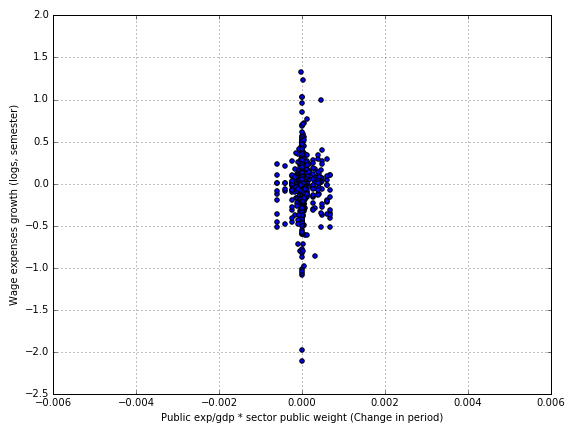
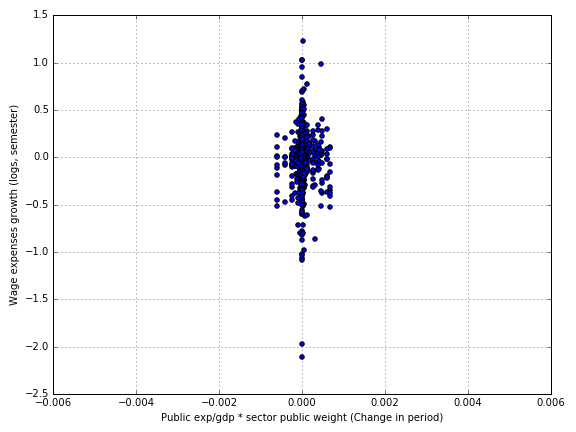
removed reig jofre post merger; code to create index based on cinco dias, panel now loows nice

diff --git a/cincodias/main.py b/cincodias/main.py
@@ -14,18 +14,50 @@ import urllib2
 import datetime
 from bs4 import BeautifulSoup
 import os
-
+import pandas as pd
+import numpy as np
 
 from news_risk.settings import rootdir
-datadir = os.path.join(rootdir,'cincodias','data')
+thisdir = os.path.join(rootdir,'cincodias')
+datadir = os.path.join(thisdir,'data')
 if not os.path.exists(datadir):
     os.makedirs(datadir)
+
+
+from re import compile, MULTILINE
+
+conds = [[r'incertidumbre',r'\binciert'],
+         [r'econ(o|ó)m(i|í)'],
+         [r'\bimp(uesto|ositiv|onib)',r'\btarifa',r'\bregula(ci|ti|to)',r'\bpol(i|í)tica',r'\bgast(ar|o|a|os)\b',r'\bpresupuest',r'\bd(e|é)ficit',r'\bbanc(o|a)[s]?[\s]*central',r'\bbanco de españa',r'\btribut']]
+conds = [[compile(w,I|MULTILINE).search for w in cond] for cond in conds]
+    
+
+add_conds = [[r'\bimp(uesto|ositiv|onib)',r'\btarifa',r'\brecauda',r'\btribut',r'\biva\b',r'\birpf\b'],
+             [r'\bgast(ar|o|a|os)\b',r'\bpresupuest',r'(deuda|d(é|e)ficit) p(u|ú)blic',r'\berario',r'pacto de estabilidad'],
+             [r'\bbanc(o|a)[s]?[\s]*central',r'\bbce\b',r'\bbde\b',r'\bbanco de españa',r'pol(i|í)tica monetaria'],
+             [r'\bsani(tari|dad)',r'\bhospital',r'\bfarmac(ia|eu)',r'\bm(e|é)dic(o|in)'],
+             [r'seguridad nacional',r'\bmilitar',r'\bterrorismo',r'\beta\b',r'minist(erio|ro) de defensa',r'fuerzas armadas'],
+             [r'supervis(ión|or) bancar',r'reformas? financiera',r'tests? de estrés',r'stress test',r'comisi(o|ó)n nacional',r'cnmv',r'fondo de (garant(i|í)a de )?dep(o|ó)sito',r'basilea'],
+             [r'\bregula(ci|ti|to)',r'convenio',r'\blegisla',r'\bley(es)?\b',r'monopol',r'\bc(a|á)rtel',r'\bderecho'],
+             [r'deuda (sobera|p(ú|u)blic)',r'crisis de deuda',r'\bdevalu',r'tipos? de cambio',r'\bcambiari',r'\beuro.?zona',r'\brublo'],
+             [r'seguridad social',r'asuntos? social',r'estado del bienestar',r'subsidi(o|a)',r'fondos? estructural'],
+             [r'\barancel',r'\baduan(a|e)',r'tarifas?.{1,6}\b(expor|impor)',r'tratados?.{1,6}(libre.{1,6})?\bcomerc'],
+             [r'\bdescentraliz',r'\bindependent',r'\bseparati',r'\bsecesi(o|ó)n',r'\bibarretx',r'\bnacionalis',r'\bterritorial']] # # 
+colnames = ['ingreso','gasto','money','sanidad','seguridad','banca','othregula','deuda','bienestar','arancel','autonomia']
+
+add_conds = [[compile(w,I|MULTILINE).search for w in cond] for cond in add_conds]
+combos = [(0,1),(5,6)]
+combo_names = ['fiscal','regula']
+
+c_n = len(add_conds)
+b_n = len(combos)
+
 
 def create_archive():
     url_tem = 'http://cincodias.com/tag/economia/a/{page}'
     
     newindices = os.path.join(datadir,'newindices')
-    for page in range(5200,num_pages+1):#range(1,num_pages+1):
+    for page in range(1,num_pages+1):#range(1,num_pages+1):
         fname = '%s.html' % page
         
         if fname not in os.listdir(newindices):
@@ -71,5 +103,103 @@ def create_archive():
                         outf.write(content.encode('utf8'))
                 except:
                     continue
+                
+   
+        
+def match_file(inpstr):
+    for j, cond in enumerate(conds):
+        for p in cond:
+            m = p(inpstr)
+            if m:
+                break
+        else:
+            if j == 2:
+                return [True, False] ## economic uncertainty, not political
+            else:
+                return [False, False]
+            
+    out = [True,True]
+    for cond in add_conds:
+        for p in cond:
+            m = p(inpstr)
+            if m:
+                out.append(True)
+                break
+        else:
+            out.append(False)
+    return out
+             
+def build_index():
+    
+    t0 = datetime.datetime(2001,1,1)
+    num_days =  (datetime.datetime(2016,1,31) - t0).days + 1
+
+    rng = pd.date_range(t0.strftime('%m/%d/%Y'), periods=num_days, freq='D')
+    df = pd.DataFrame(np.zeros((num_days,4 + c_n + b_n)), index=rng,columns=['eumatches','matches','articles','words'] + colnames + combo_names)
+    
+    for i in range(1200,num_days):
+        t = t0 + datetime.timedelta(days = i)
+        d = t.day
+        m = t.month
+        y = t.year
+        assert(t == df.index[i].to_datetime())
+        ddir = os.path.join(datadir,str(y),str(m),str(d))
+        if not os.path.exists(ddir):
+            continue
+
+        txtfiles = [x for x in os.listdir(ddir) if match(r'^ec_.*\.txt$',x,I)]
+        rfile = 'res.txt'
+        m_n = 0; a_n = 0; w_n = 0; eu_n = 0;
+        
+        if rfile in os.listdir(ddir):
+            with open(os.path.join(ddir,rfile),'r') as inf:
+                res = inf.read().split(',')
+                eu_n = int(res[0])
+                m_n = int(res[1])
+                a_n = int(res[2])
+                w_n = int(res[3])
+                rest = [int(res[4+k]) for k in range(c_n + b_n)]
+        
+        if a_n == 0:
+            
+            rest = [0]*(c_n+ b_n)
+            for txtf in txtfiles:
+                with open(os.path.join(ddir, txtf), 'r') as inf:
+                    inpstr = inf.read()
+                
+                m = match_file(inpstr)
+                if m[0]:
+                    eu_n += 1
+                if m[1]:
+                    
+                    m_n +=1
+                    combo_f = [False]*b_n
+                    for j in range(c_n):
+                        if m[2+j]:
+                            
+                            rest[j] += 1
+                            for k in range(b_n):
+                                if j in combos[k]:
+                                    combo_f[k] = True
+                    for k in range(b_n):
+                        if combo_f[k]:
+                            rest[c_n + k] += 1
+                w_n += len(inpstr.split())
+                a_n += 1
+
+            with open(os.path.join(ddir,rfile),'w') as outf:
+                outf.write('%d,%d,%d,%d,%s' % (eu_n, m_n, a_n, w_n,','.join(['%d' % x for x in rest]) ))
+        df.eumatches[i] += eu_n
+        df.matches[i] += m_n
+        df.articles[i] += a_n
+        df.words[i] += w_n
+        for j in range(c_n + b_n):
+            df[(colnames+combo_names)[j]][i] += rest[j]
+    
+    df.to_csv(os.path.join(thisdir, 'daily_data.csv'))
+
+
+        
 if __name__ == '__main__':
-    create_archive()
+    #create_archive()
+    build_index()

diff --git a/elpais/main.py b/elpais/main.py
@@ -69,8 +69,9 @@ import os
 
 import pandas as pd
 import numpy as np
-rootdir = os.path.dirname(__file__)#r'C:/users/oriolandres/desktop/news_risk/elpais'
-datadir = os.path.join(rootdir,'data')
+from news_risk.settings import rootdir
+thisdir = os.path.join(rootdir,'elpais')
+datadir = os.path.join(thisdir,'data')
 if not os.path.exists(datadir):
     os.makedirs(datadir)
 
@@ -219,7 +220,7 @@ def build_index(section = 'economia', new_format = True):
             rfile = 'res.txt'
         m_n = 0; a_n = 0; w_n = 0; eu_n = 0;
         
-        if rfile in os.listdir(ddir) and False:
+        if rfile in os.listdir(ddir):
             with open(os.path.join(ddir,rfile),'r') as inf:
                 res = inf.read().split(',')
                 eu_n = int(res[0])
@@ -264,9 +265,9 @@ def build_index(section = 'economia', new_format = True):
         for j in range(c_n + b_n):
             df[(colnames+combo_names)[j]][i] += rest[j]
     if not new_format:
-        df.to_csv('daily_data_{0}.csv'.format(section))
+        df.to_csv(os.path.join(thisdir, 'daily_data_{0}.csv'.format(section)))
     else:
-        df.to_csv('daily_data_{0}_new.csv'.format(section))
+        df.to_csv(os.path.join(thisdir, 'daily_data_{0}_new.csv'.format(section)))
 
 
 def retrieve_old_archive():

diff --git a/accounts/get_stats.py b/accounts/get_stats.py
@@ -51,6 +51,8 @@ def parse_xml():
                 continue
             if folder.startswith('CAIXABANK') and fname < '2011104630': ## previously CRITERIA only
                 continue
+            if folder.startswith('REIG') and fname > '2014108941': ## from NATRACEUTICAL to REIG JOFRE, keep the former
+                continue
             fpath = os.path.join(unzipdir,folder, fname)
             full_string = ''
             with open(fpath,'r') as inf:
@@ -113,6 +115,9 @@ def parse_xml():
             if not value_dict.get('Revenues',None) or value_dict.get('Revenues') == '0':
                 continue
             outarray.append(value_dict)
+        
+        if biz_name == "NATRACEUTICAL, S.A.":
+            biz_name = "LABORATORIO REIG JOFRE, S.A."
         short_long_names.append([folder, biz_name])
         outdict[biz_name] = outarray
     with open(os.path.join(rootdir,'accounts','short_long.csv'),'wb') as outf:

diff --git a/accounts/match_boe.py b/accounts/match_boe.py
@@ -176,7 +176,6 @@ def build_data_frame():
             #print  kstar, member
             if entity_id not in datadict:
                 continue
-    
             entity_sector_pairs[entity_id] = s
             public_eur += datadict[entity_id]['Contracts_eur'].sum()
             sector_sales += datadict[entity_id]['Sales'].sum()

diff --git a/README.md b/README.md
@@ -217,6 +217,8 @@ We look for consolidated accounts and if absent for individual accounts. We iden
 
 We remove Ferrovial data prior to 2010 as reports refer to CINTRA accounts and likewise for Caixabank prior to 2011 as they describe CRITERIA.
 
+We remove Reig Jofre starting the second semester of 2014 as it results from the merger with NATRACEUTICAL and introduces an important outlier.
+
 ##### Text mining Boletin Oficial del Estado
 
 We download BOE from 2005 to 2015 and find data on public work contracts. We use text mining to extract the value of the contract and the contractor name. Then we write regular expressions for the list of companies in the previous section and add up the volume of public work for each semester and company. Then we calculate the public work awards for each sector, and the fraction that represent over sales for the full time interval.
@@ -243,22 +245,22 @@ We report coefficient estimates and p-values right below.
 
 Daily volatility | (1) | (2) | (3) | (4)
 --- | :---: | :---: | :---: | :---:
-**log_epu** | 1.363 |   | 1.384 |  
- | 0.891 |   | 0.896 |  
-**epu_weighted** |   | 64.718 |   | 68.596
+**log_epu** | 1.311 |   | 1.384 |  
+ | 0.895 |   | 0.896 |  
+**epu_weighted** |   | 64.736 |   | 68.613
  |   | 0.000 |   | 0.000
-**ibex35** |   |   | -0.050 |  
- |   |   | 0.995 |  
-**ibex_weighted** |   |   |   | -9.147
- |   |   |   | 0.541
-**spending** | -108.431 |   | -107.682 |  
- | 0.789 |   | 0.801 |  
-**spend_weighted** |   | -2407.173 |   | -2275.662
+**ibex35** |   |   | -0.171 |  
+ |   |   | 0.984 |  
+**ibex_weighted** |   |   |   | -9.146
+ |   |   |   | 0.542
+**spending** | -106.016 |   | -103.431 |  
+ | 0.794 |   | 0.809 |  
+**spend_weighted** |   | -2407.812 |   | -2276.290
  |   | 0.001 |   | 0.002
 **lag_expend** |   |   |   |  
  |   |   |   |  
 **r2** | 0.000 | 0.022 | 0.000 | 0.023
-**N** | 1909 | 1909 | 1909 | 1909
+**N** | 1906 | 1906 | 1906 | 1906
 **Time&firm eff.** | False | True | False | True
 
 
@@ -269,22 +271,22 @@ In the second set of regressions, we will look at the evolution of variables in 
 
 Log salary expense | (1) | (2) | (3) | (4)
 --- | :---: | :---: | :---: | :---:
-**log_epu** | -0.028 |   | -0.030 |  
- | 0.053 |   | 0.047 |  
-**epu_weighted** |   | -0.540 |   | -0.130
- |   | 0.243 |   | 0.814
-**ibex35** |   |   | 0.005 |  
- |   |   | 0.665 |  
-**ibex_weighted** |   |   |   | -0.815
- |   |   |   | 0.144
-**spending** | -1.190 |   | -1.270 |  
- | 0.075 |   | 0.067 |  
-**spend_weighted** |   | 83.651 |   | 88.754
- |   | 0.135 |   | 0.117
-**lag_expend** | -65.620 | -133.424 | -68.147 | -105.676
- | 0.135 | 0.022 | 0.124 | 0.079
-**r2** | 0.018 | 0.038 | 0.018 | 0.040
-**N** | 1699 | 1699 | 1699 | 1699
+**log_epu** | -0.026 |   | -0.028 |  
+ | 0.069 |   | 0.058 |  
+**epu_weighted** |   | -0.573 |   | -0.133
+ |   | 0.209 |   | 0.808
+**ibex35** |   |   | 0.006 |  
+ |   |   | 0.585 |  
+**ibex_weighted** |   |   |   | -0.855
+ |   |   |   | 0.120
+**spending** | -1.253 |   | -1.352 |  
+ | 0.057 |   | 0.048 |  
+**spend_weighted** |   | 87.544 |   | 84.601
+ |   | 0.112 |   | 0.129
+**lag_expend** | -63.140 | -133.394 | -66.285 | -95.308
+ | 0.145 | 0.020 | 0.129 | 0.108
+**r2** | 0.018 | 0.039 | 0.018 | 0.041
+**N** | 1696 | 1696 | 1696 | 1696
 **Time&firm eff.** | False | True | False | True
 
 ![](figures/wage_growth_epu.png?raw=true)
